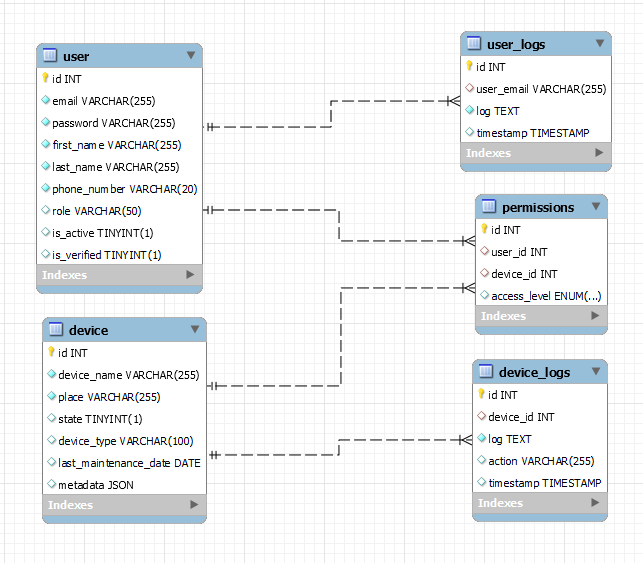
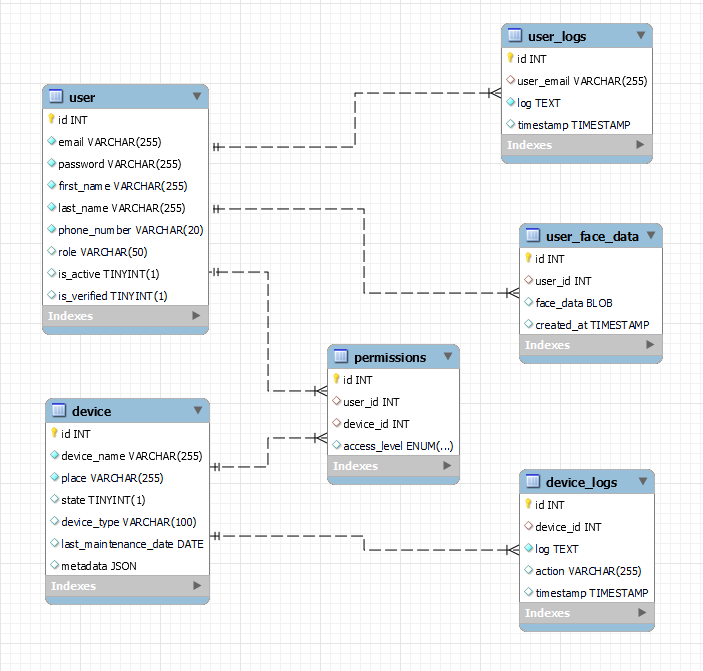
Added API for user management Added Image embedding

diff --git a/app/service/user_service.py b/app/service/user_service.py
@@ -1,10 +1,16 @@
+import os
+
 from app.entity.user import User
+from fastapi import UploadFile
+from typing import List
+from PIL import Image
+
 from app.model.user_model import UserModel
 from app.model.generic_response import GenericResponse
-
 from app.config.logging_config import get_logger
 from app.repository.user_repository import UserRepository
-from app.util.util import encrypt_password, decrypt_password
+from app.service.image_embedding_service import ImageEmbeddingService
+from app.util.util import encrypt_password
 
 logger = get_logger(class_name=__name__)
 
@@ -12,9 +18,27 @@ logger = get_logger(class_name=__name__)
 class UserService:
 
     @classmethod
-    def create_user(cls, user: UserModel, db):
+    def create_user(cls, user: UserModel, image_list: List[UploadFile], db):
+        image_paths = []
         try:
             logger.info("Create User Process Started")
+
+            for image in image_list:
+                try:
+                    img = Image.open(image.file)
+                    img.verify()
+                except Exception as e:
+                    return GenericResponse.failed(message=f"Invalid image file: {image.filename}. Error: {str(e)}",
+                                                  results=[])
+
+                image_path = f"temp/{image.filename}"
+                image.file.seek(0)
+                if not os.path.exists("temp"):
+                    os.makedirs("temp")
+                with open(image_path, "wb") as buffer:
+                    buffer.write(image.file.read())
+                image_paths.append(image_path)
+
             user_entity = User(
                 email=user.email,
                 password=encrypt_password(user.password),
@@ -25,10 +49,15 @@ class UserService:
                 is_active=True,
                 is_verified=False
             )
+
             saved_user = UserRepository.save(user_entity, db)
+
+            face_data_results = ImageEmbeddingService.store_embedding_in_db(user_id=saved_user.id, img_list=image_paths,
+                                                                            db=db)
 
             results = saved_user.__dict__
             results.pop('password')
+            results['face_data'] = face_data_results
 
             logger.info("Create User Process End")
             return GenericResponse.success(message="Create User Success", results=results)
@@ -36,3 +65,74 @@ class UserService:
             logger.error(f"Create User Error: {str(ex)}")
             logger.info("Create User End With Error")
             return GenericResponse.failed(message=f"Create User Failed, Error: {str(ex)}", results=[])
+        finally:
+            for image_path in image_paths:
+                try:
+                    os.remove(image_path)
+                except OSError as e:
+                    logger.error(f"Error deleting temp file {image_path}: {e}")
+
+    @classmethod
+    def login_user(cls, login_model, db):
+        try:
+            logger.info("Login User Process Started")
+
+            user = UserRepository.get_user_by_email(email=login_model.email, db=db)
+            if not user:
+                logger.info("Login User Process End with error")
+                return GenericResponse.failed(message="Unauthorized user", results=[], status_code=401)
+
+            if user.password != encrypt_password(login_model.password):
+                logger.info("Login User Process End")
+                return GenericResponse.failed(message="Invalid password", results=[])
+
+            user_dict = user.__dict__
+            user_dict.pop('password')
+
+            logger.info("Login User Process End")
+            return GenericResponse.success(message="Login Success", results=user_dict)
+        except Exception as ex:
+            logger.error(f"Login User Error: {str(ex)}")
+            logger.info("Login User End With Error")
+            return GenericResponse.failed(message=f"Login Failed, Error: {str(ex)}", results=[])
+
+    @classmethod
+    def get_user_by_email(cls, email, db):
+        try:
+            logger.info("Get User Process Started")
+
+            user = UserRepository.get_user_by_email(email=email, db=db)
+            if not user:
+                logger.info("Get User Process End with error")
+                return GenericResponse.failed(message="User not found", results=[], status_code=404)
+
+            user_dict = user.__dict__
+            user_dict.pop('password')
+            user_dict.pop('user_face_data')
+
+            logger.info("Get User Process End")
+            return GenericResponse.success(message="User found", results=user_dict)
+        except Exception as ex:
+            logger.error(f"Get User Error: {str(ex)}")
+            logger.info("Get User End With Error")
+            return GenericResponse.failed(message=f"Get User Failed, Error: {str(ex)}", results=[])
+
+    @classmethod
+    def get_all_users(cls, db):
+        try:
+            logger.info("Get All Users Process Started")
+
+            users = db.query(User).all()
+            users_list = []
+            for user in users:
+                user_dict = user.__dict__
+                user_dict.pop('password')
+                user_dict.pop('user_face_data')
+                users_list.append(user_dict)
+
+            logger.info("Get All Users Process End")
+            return GenericResponse.success(message="Users found", results=users_list)
+        except Exception as ex:
+            logger.error(f"Get All Users Error: {str(ex)}")
+            logger.info("Get All Users End With Error")
+            return GenericResponse.failed(message=f"Get All Users Failed, Error: {str(ex)}", results=[])

diff --git a/app/controller/user_controller.py b/app/controller/user_controller.py
@@ -1,8 +1,10 @@
-from fastapi import APIRouter, Response
+from fastapi import APIRouter, Response, UploadFile, File, Form
+from typing import List
 
 from app.config.database_config import db_dependency
 from app.config.logging_config import get_logger
 from app.model.user_model import UserModel
+from app.model.login_model import LoginModel
 from app.service.user_service import UserService
 
 router = APIRouter(
@@ -13,8 +15,54 @@ logger = get_logger(class_name=__name__)
 user_service = UserService()
 
 
-@router.post("/")
-def create_user(response: Response, user: UserModel, db: db_dependency):
-    result = user_service.create_user(user=user, db=db)
+@router.post("/create")
+async def create_user(db: db_dependency, response: Response,
+                email: str = Form(...),
+                password: str = Form(...),
+                first_name: str = Form(...),
+                last_name: str = Form(...),
+                phone_number: str = Form(...),
+                role: str = Form(...),
+                image_list: List[UploadFile] = File(...)):
+    user = UserModel(
+        email=email,
+        password=password,
+        first_name=first_name,
+        last_name=last_name,
+        phone_number=phone_number,
+        role=role
+    )
+    result = user_service.create_user(user=user, image_list=image_list, db=db)
     response.status_code = result.status_code
     return result
+
+
+@router.post("/login")
+async def login_user(db: db_dependency, response: Response, login_model: LoginModel):
+    result = user_service.login_user(login_model=login_model, db=db)
+    response.status_code = result.status_code
+    return result
+
+
+@router.get("/get/{email}")
+async def get_user_by_email(db: db_dependency, response: Response, email: str):
+    result = user_service.get_user_by_email(email=email, db=db)
+    response.status_code = result.status_code
+    return result
+
+@router.get("/all")
+async def get_all_users(db: db_dependency, response: Response):
+    result = user_service.get_all_users(db=db)
+    response.status_code = result.status_code
+    return result
+
+
+
+
+
+
+
+
+
+
+

diff --git a/app/service/image_embedding_service.py b/app/service/image_embedding_service.py
@@ -1,0 +1,41 @@
+import pickle
+from datetime import datetime
+from deepface import DeepFace
+from app.config.logging_config import get_logger
+from app.entity.user_face_data import UserFaceData
+from app.repository.user_face_data_repository import UserFaceDataRepository
+
+logger = get_logger(class_name=__name__)
+
+
+class ImageEmbeddingService:
+
+    @classmethod
+    def generate_embedding(cls, image_path):
+        logger.info(f"Generate embedding for image: {image_path}")
+        embedding_data = DeepFace.represent(img_path=image_path, model_name="Facenet")[0]["embedding"]
+        logger.info("Embedding generated successfully")
+        return embedding_data
+
+    @classmethod
+    def store_embedding_in_db(cls, user_id, img_list: list, db):
+        try:
+            logger.info(f"Store embedding for user ID: {user_id}")
+            results = []
+            for img in img_list:
+                embedding_data = cls.generate_embedding(img)
+                user_face_data = UserFaceData(
+                    user_id=user_id,
+                    face_data=pickle.dumps(embedding_data),
+                    created_at=datetime.now()
+                )
+                saved_data = UserFaceDataRepository.save(user_face_data, db)
+                results.append({
+                    "id": saved_data.id,
+                })
+
+            logger.info(f"Embeddings stored successfully for user ID: {user_id}")
+            return results
+        except Exception as ex:
+            logger.error(f"Store embedding error: {str(ex)}")
+            return []

diff --git a/app/repository/user_face_data_repository.py b/app/repository/user_face_data_repository.py
@@ -1,22 +1,22 @@
-from app.entity.user import User
+from app.entity.user_face_data import UserFaceData
 from app.exceptions.exception import DbOperationException
 
 
-class UserRepository:
+class UserFaceDataRepository:
 
     @classmethod
-    def save(cls, user, db):
+    def save(cls, user_face_data, db):
         try:
-            db.add(user)
+            db.add(user_face_data)
             db.commit()
-            db.refresh(user)
-            return user
+            db.refresh(user_face_data)
+            return user_face_data
         except Exception as ex:
             raise DbOperationException(str(ex), ex)
 
     @classmethod
-    def get_user_by_email(cls, email, db):
+    def get_all(cls, db):
         try:
-            return db.query(User).filter(User.email == email).first()
+            return db.query(UserFaceData).all()
         except Exception as ex:
             raise DbOperationException(str(ex), ex)

diff --git a/app/entity/user_face_data.py b/app/entity/user_face_data.py
@@ -1,0 +1,15 @@
+from sqlalchemy import Column, BigInteger, ForeignKey, BLOB, DateTime, func
+from sqlalchemy.orm import relationship
+
+from app.config.database_config import Base
+from app.entity.user import User
+
+
+class UserFaceData(Base):
+    __tablename__ = 'user_face_data'
+    id = Column(BigInteger, primary_key=True, autoincrement=True)
+    user_id = Column(BigInteger, ForeignKey(User.id, ondelete='CASCADE', onupdate='CASCADE'))
+    face_data = Column(BLOB, nullable=False)
+    created_at = Column(DateTime, nullable=True, server_default=func.now())
+
+    user = relationship("User", back_populates="user_face_data", lazy="joined", innerjoin=True)

diff --git a/app/entity/user.py b/app/entity/user.py
@@ -1,4 +1,5 @@
 from sqlalchemy import Column, BigInteger, String, Boolean
+from sqlalchemy.orm import relationship
 
 from app.config.database_config import Base
 
@@ -14,3 +15,5 @@ class User(Base):
     role = Column(String(50), default='user')
     is_active = Column(Boolean, default=True)
     is_verified = Column(Boolean, default=False)
+
+    user_face_data = relationship("UserFaceData", back_populates="user", lazy='noload')

diff --git a/app/model/login_model.py b/app/model/login_model.py
@@ -1,0 +1,6 @@
+from pydantic import BaseModel
+
+
+class LoginModel(BaseModel):
+    email: str
+    password: str
